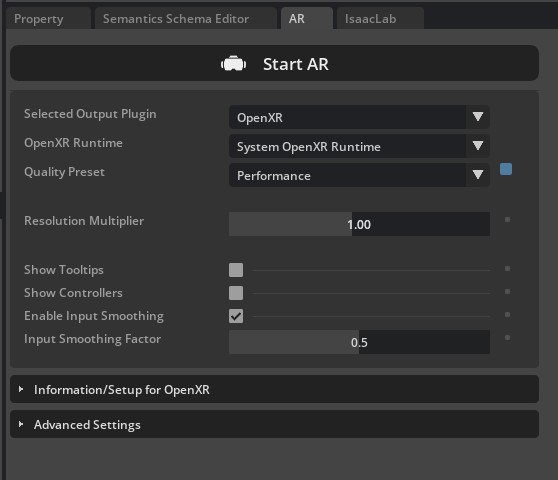
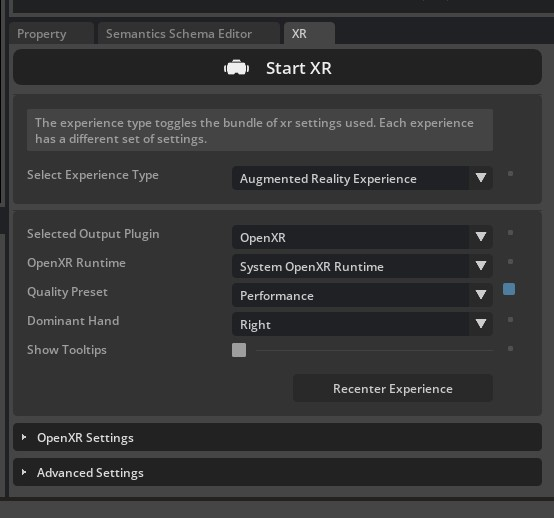
Fix CloudXR and teleop documentation inaccuracies (#5864)
# Description

cloudxr_teleoperation.rst

Correct post-"Start XR" status: replace "two eyes rendered / AR profile
is active" with "Waiting for connection", and note that stereo rendering
activates only after the headset connects. Update screenshot
(cloudxr_viewport.jpg).
Rename all AR panel / Start AR / Stop AR references to XR / Start XR /
Stop XR to match the actual Isaac Sim UI. Update screenshot
(cloudxr_ar_panel.jpg).
Add an attention callout for first-run EULA acceptance, including the
exact terminal prompt and a note that the script will appear to hang if
the prompt is missed.
teleop_imitation.rst

Replace the ambiguous --teleop_device <teleop_device> placeholder in the
record_demos.py command with a tab-set showing explicit commands for
Keyboard, SpaceMouse, and XR headsets. XR tab uses --xr (no
--teleop_device) and the recommended Isaac-Stack-Cube-Franka-IK-Abs-v0
task.
humanoids_imitation.rst — Update Stop AR / AR tab / Start AR → Stop XR /
XR tab / Start XR.

isaac_teleop.rst

Update "Start AR" → "Start XR" in the session lifecycle dropdown.
Add guidance in the RTX Minimal renderer note that the default
DistantLight orientation may cause shadow overlap on the robot, and show
how to adjust it via init_state on AssetBaseCfg.

Fixes # (issue)

## Type of change

- Documentation update

## Checklist

- [x] I have read and understood the [contribution
guidelines](https://isaac-sim.github.io/IsaacLab/main/source/refs/contributing.html)
[…]

Pull request: Fix CloudXR and teleop documentation inaccuracies
# Description

cloudxr_teleoperation.rst

Correct post-"Start XR" status: replace "two eyes rendered / AR profile is active" with "Waiting for connection", and note that stereo rendering activates only after the headset connects. Update screenshot (cloudxr_viewport.jpg).
Rename all AR panel / Start AR / Stop AR references to XR / Start XR / Stop XR to match the actual Isaac Sim UI. Update screenshot (cloudxr_ar_panel.jpg).
Add an attention callout for first-run EULA acceptance, including the exact terminal prompt and a note that the script will appear to hang if the prompt is missed.
teleop_imitation.rst

Replace the ambiguous --teleop_device <teleop_device> placeholder in the record_demos.py command with a tab-set showing explicit commands for Keyboard, SpaceMouse, and XR headsets. XR tab uses --xr (no --teleop_device) and the recommended Isaac-Stack-Cube-Franka-IK-Abs-v0 task.
humanoids_imitation.rst — Update Stop AR / AR tab / Start AR → Stop XR / XR tab / Start XR.

isaac_teleop.rst

Update "Start AR" → "Start XR" in the session lifecycle dropdown.
Add guidance in the RTX Minimal renderer note that the default DistantLight orientation may cause shadow overlap on the robot, and show how to adjust it via init_state on AssetBaseCfg.

Fixes # (issue)

## Type of change

- Documentation update

## Checklist

- [x] I have read and understood the [contribution guidelines](https://isaac-sim.github.io/IsaacLab/main/source/refs/contributing.html)
[…]

diff --git a/docs/source/overview/imitation-learning/teleop_imitation.rst b/docs/source/overview/imitation-learning/teleop_imitation.rst
@@ -216,17 +216,52 @@ Make a new folder in the ``IsaacLab`` root directory to store datasets:
 
    mkdir -p datasets
 
-Change ``<teleop_device>`` to the teleoperation device you want to use (e.g. ``spacemouse``, ``keyboard``) and
-run the record demos script to collect a set of 10 human demonstrations for the cube stacking task.
+Run the record demos script to collect a set of 10 human demonstrations for the cube stacking task.
+Select the tab that matches your input device:
 
-.. code:: bash
+.. tab-set::
 
-   ./isaaclab.sh -p scripts/tools/record_demos.py \
-   --task Isaac-Stack-Cube-Franka-IK-Rel-v0 \
-   --viz kit \
-   --dataset_file ./datasets/dataset.hdf5 \
-   --num_demos 10 \
-   --teleop_device <teleop_device>
+   .. tab-item:: Keyboard
+
+      .. code:: bash
+
+         ./isaaclab.sh -p scripts/tools/record_demos.py \
+         --task Isaac-Stack-Cube-Franka-IK-Rel-v0 \
+         --viz kit \
+         --dataset_file ./datasets/dataset.hdf5 \
+         --num_demos 10 \
+         --teleop_device keyboard
+
+   .. tab-item:: SpaceMouse
+
+      .. code:: bash
+
+         ./isaaclab.sh -p scripts/tools/record_demos.py \
+         --task Isaac-Stack-Cube-Franka-IK-Rel-v0 \
+         --viz kit \
+         --dataset_file ./datasets/dataset.hdf5 \
+         --num_demos 10 \
+         --teleop_device spacemouse
+
+   .. tab-item:: XR Headset (Meta Quest / Pico)
+
+      When using hand tracking via an XR headset, use the absolute action space
+      variant of the task and omit ``--teleop_device``. The IsaacTeleop pipeline
+      is activated automatically via the ``--xr`` flag.
+
+      .. code:: bash
+
+         ./isaaclab.sh -p scripts/tools/record_demos.py \
+         --task Isaac-Stack-Cube-Franka-IK-Abs-v0 \
+         --viz kit \
+         --dataset_file ./datasets/dataset.hdf5 \
+         --num_demos 10 \
+         --xr
+
+      .. note::
+
+         Ensure CloudXR is configured and the headset is connected before running.
+         See :ref:`cloudxr-teleoperation` for setup instructions.
 
 .. important::
    The order of the stacked cubes should be blue (bottom), red (middle), green (top).

diff --git a/docs/source/how-to/cloudxr_teleoperation.rst b/docs/source/how-to/cloudxr_teleoperation.rst
@@ -120,6 +120,23 @@ terminal or ``source`` step is needed. Launch a teleoperation script directly:
        --visualizer kit \
        --xr
 
+.. attention::
+
+   **First run — EULA acceptance required.**
+   On the first launch, Isaac Sim will prompt you to accept the NVIDIA Omniverse License
+   Agreement before the simulation starts:
+
+   .. code-block:: text
+
+      By installing or using Isaac Sim, I agree to the terms of NVIDIA OMNIVERSE LICENSE AGREEMENT
+      in https://docs.isaacsim.omniverse.nvidia.com/latest/common/NVIDIA_Omniverse_License_Agreement.html
+
+      Do you accept the EULA? (Yes/No):
+
+   Type ``Yes`` and press **Enter** to continue. If this prompt goes unnoticed the script
+   will appear to hang — check your terminal output if Isaac Sim does not start within a
+   few seconds.
+
 .. tip::
 
    The ``Isaac-PickPlace-GR1T2-WaistEnabled-Abs-v0`` task above uses **hand tracking** as its
@@ -144,7 +161,7 @@ For details on the shipped ``.env`` profiles and how to customise them, see
 
 Then in the Isaac Sim UI:
 
-#. Locate the panel named **AR** and choose the following options:
+#. Locate the panel named **XR** and choose the following options:
 
    * Selected Output Plugin: **OpenXR**
    * OpenXR Runtime: **System OpenXR Runtime**
@@ -152,16 +169,17 @@ Then in the Isaac Sim UI:
    .. figure:: ../_static/setup/cloudxr_ar_panel.jpg
       :align: center
       :figwidth: 50%
-      :alt: Isaac Sim UI: AR Panel
+      :alt: Isaac Sim UI: XR Panel
 
-#. Click **Start AR**.
+#. Click **Start XR**.
 
-The viewport should show two eyes being rendered and the status "AR profile is active".
+You should see "Waiting for connection" displayed in the status bar at the bottom of the viewport.
+The dual-eye stereo render only becomes active once a headset connects and playback begins on the device.
 
 .. figure:: ../_static/setup/cloudxr_viewport.jpg
    :align: center
    :figwidth: 100%
-   :alt: Isaac Lab viewport rendering two eyes
+   :alt: Isaac Lab viewport showing "Waiting for connection" status after clicking Start XR
 
 Isaac Lab is now ready to receive connections from a CloudXR client.
 
@@ -408,7 +426,7 @@ For plugin configuration details, see the `Manus plugin documentation
 
 The recommended workflow:
 
-#. Start Isaac Lab and click **Start AR**.
+#. Start Isaac Lab and click **Start XR**.
 #. Put on the Manus gloves and headset.
 #. Use voice commands to launch the Isaac XR Teleop Sample Client and connect to Isaac Lab.
 
@@ -433,7 +451,7 @@ Run the teleop script (e.g. ``record_demos.py`` to record demonstrations):
      --dataset_file ./datasets/dataset.hdf5 \
      --xr --visualizer kit
 
-Then in the Isaac Sim UI, set the AR panel to **System OpenXR Runtime** and click **Start XR**.
+Then in the Isaac Sim UI, set the XR panel to **System OpenXR Runtime** and click **Start XR**.
 
 For a fully headless experience, replace ``--visualizer kit`` with ``--headless`` and the XR
 teleop session will run automatically.

diff --git a/docs/source/features/isaac_teleop.rst b/docs/source/features/isaac_teleop.rst
@@ -122,7 +122,7 @@ and Isaac Lab. It composes three collaborators:
 
 .. dropdown:: Session lifecycle details
 
-   The session uses **deferred creation**: if the user has not yet clicked "Start AR" in the Isaac
+   The session uses **deferred creation**: if the user has not yet clicked "Start XR" in the Isaac
    Sim UI, the session is not created immediately. Instead, each call to ``advance()`` retries
    session creation until OpenXR handles become available. Once connected, ``advance()`` returns a
    flattened action tensor (``torch.Tensor``) on the configured device. It returns ``None`` when
@@ -1023,6 +1023,28 @@ Optimize XR Performance
              prim_path="/World/light",
              spawn=sim_utils.DistantLightCfg(color=(0.75, 0.75, 0.75), intensity=3000.0),
          )
+
+      Depending on your environment, the default ``DistantLight`` orientation may cast shadows
+      that overlap the robot and reduce visibility during teleoperation. If you encounter this,
+      adjust the light's orientation via ``init_state`` on :class:`~isaaclab.assets.AssetBaseCfg`
+      to position the light source at an angle that gives clear visibility:
+
+      .. code-block:: python
+
+         import isaaclab.sim as sim_utils
+         from isaaclab.assets import AssetBaseCfg
+
+         light = AssetBaseCfg(
+             prim_path="/World/light",
+             spawn=sim_utils.DistantLightCfg(color=(0.75, 0.75, 0.75), intensity=3000.0),
+             init_state=AssetBaseCfg.InitialStateCfg(
+                 rot=(0.0, 0.0, 0.0, 1.0),  # quaternion (x, y, z, w); adjust to reduce shadow overlap
+             ),
+         )
+
+      Experiment with different orientations in your scene to find an angle that avoids
+      shadow overlap on the robot. A slight tilt away from the camera viewpoint is a good
+      starting point.
 
 .. dropdown:: Lower the XR render resolution
    :open:

diff --git a/docs/source/overview/imitation-learning/humanoids_imitation.rst b/docs/source/overview/imitation-learning/humanoids_imitation.rst
@@ -442,7 +442,7 @@ Follow the same data collection, annotation, and generation process as demonstra
 
    .. note::
 
-      Depending on how the Apple Vision Pro app was initialized, the hands of the operator might be very far up or far down compared to the hands of the G1 robot. If this is the case, you can click **Stop AR** in the AR tab in Isaac Lab, and move the AR Anchor prim. Adjust it down to bring the hands of the operator lower, and up to bring them higher. Click **Start AR** to resume teleoperation session. Make sure to match the hands of the robot before clicking **Play** in the Apple Vision Pro, otherwise there will be an undesired large force generated initially.
+      Depending on how the Apple Vision Pro app was initialized, the hands of the operator might be very far up or far down compared to the hands of the G1 robot. If this is the case, you can click **Stop XR** in the XR tab in Isaac Lab, and move the AR Anchor prim. Adjust it down to bring the hands of the operator lower, and up to bring them higher. Click **Start XR** to resume teleoperation session. Make sure to match the hands of the robot before clicking **Play** in the Apple Vision Pro, otherwise there will be an undesired large force generated initially.
 
    You can replay the collected demonstrations by running:
 